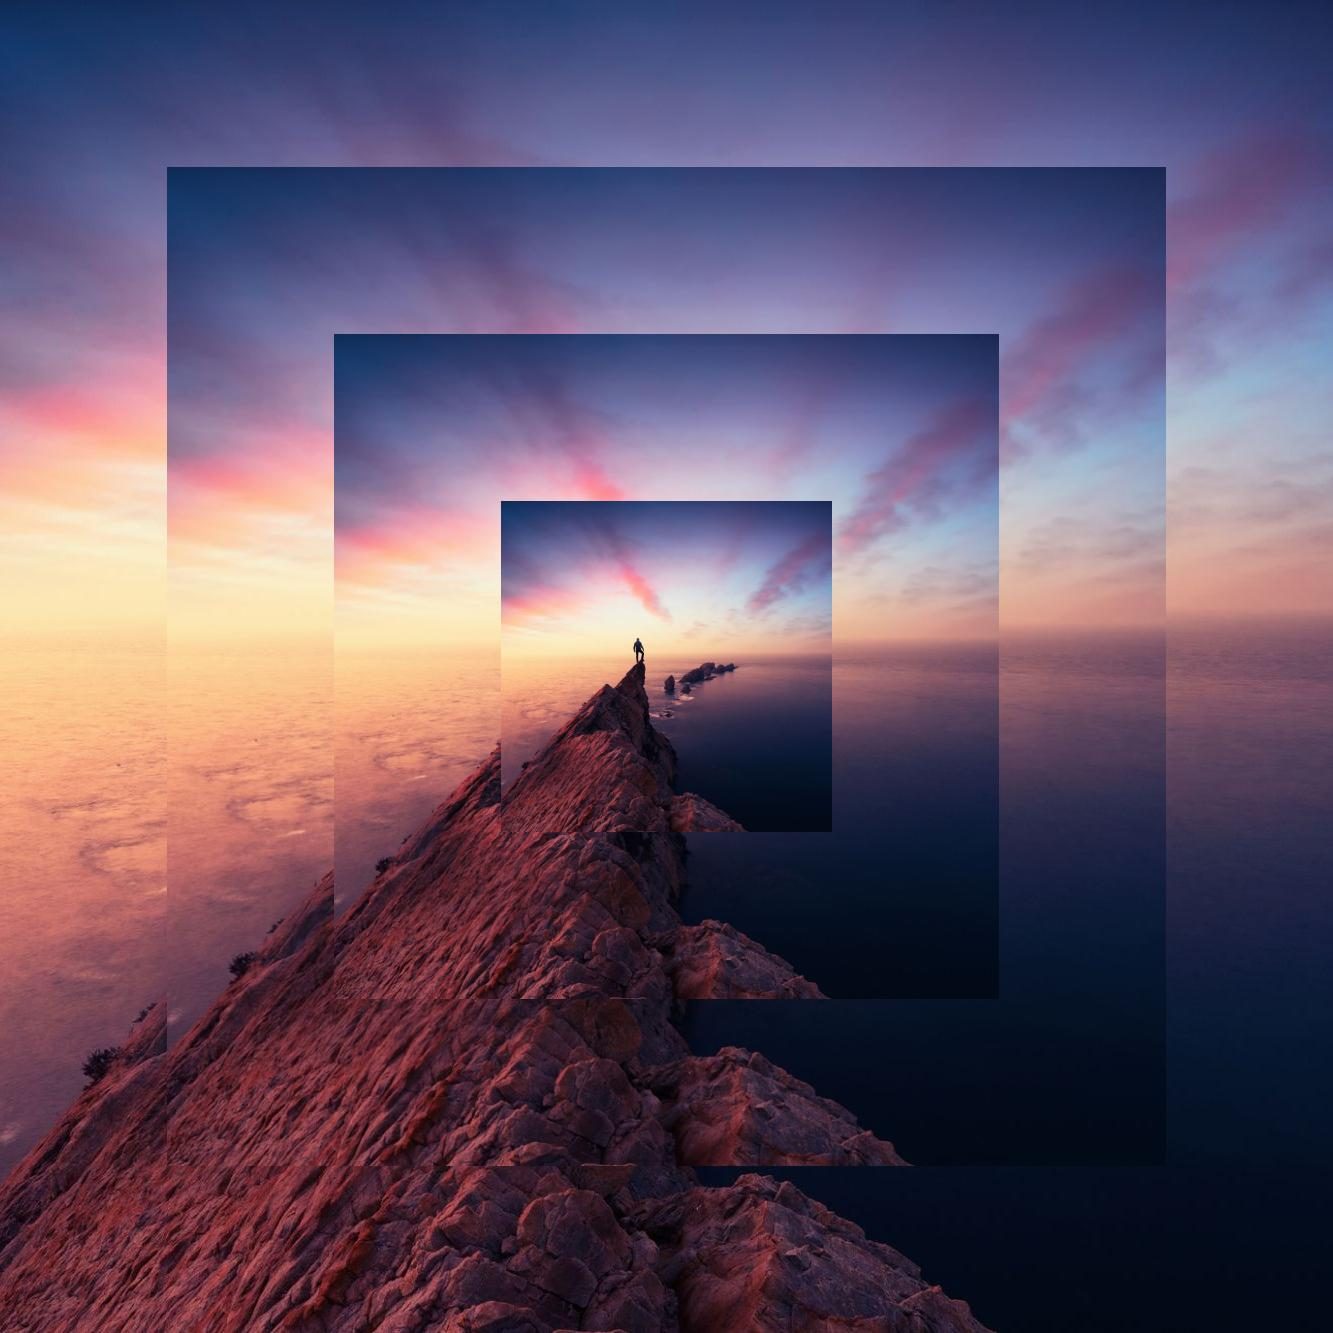
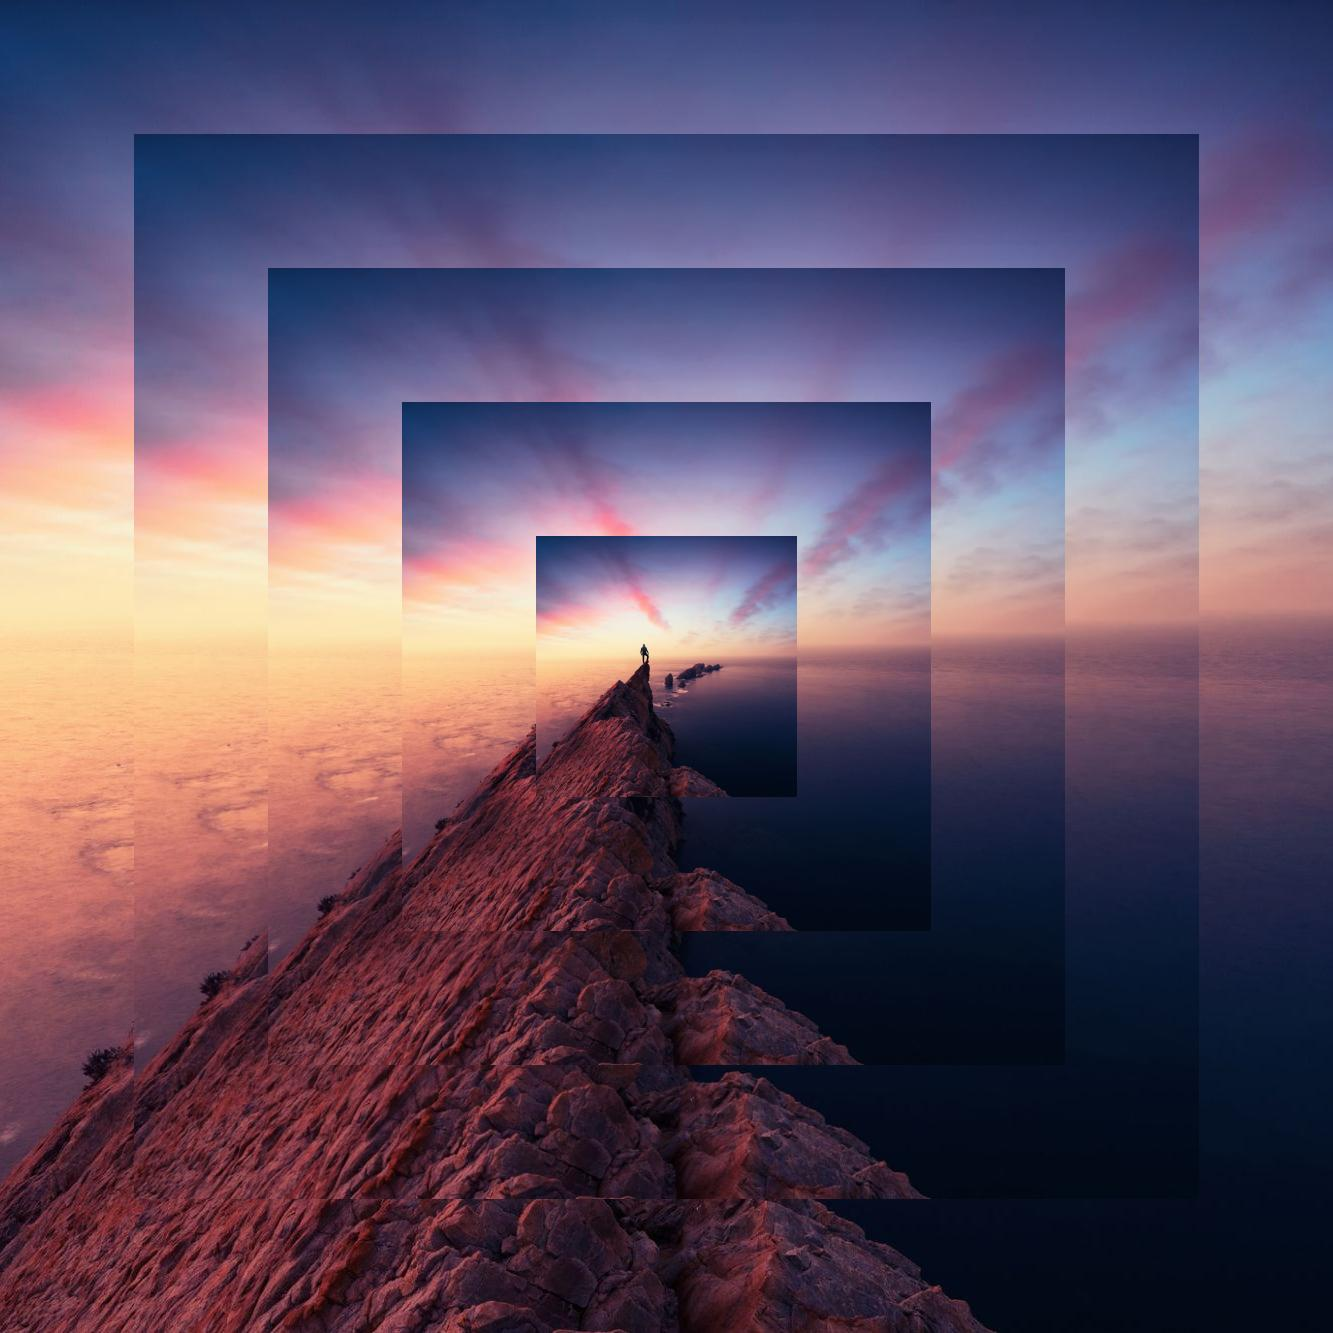
code cleared v1

diff --git a/app.js b/app.js
@@ -1,40 +1,30 @@
 const { createCanvas, loadImage } = require('canvas')
-const fs = require('fs')
+const Fs = require('fs')
+const Path = require('path')
 
-async function createRecursiveImage() {
-  loadImage(__dirname + '/none.jpeg')
+async function createRecursiveImage(imagePath, imageCount) {
+  loadImage(Path.join(__dirname, imagePath))
     .then(image => {
       let start = { x: 0, y: 0 }
       let end = { x: image.width, y: image.height }
-      // image count
-      let count = 4
 
       const canvas = createCanvas(image.width, image.height)
       const ctx = canvas.getContext('2d')
 
       ctx.beginPath()
 
-      canvas.width = image.width
-      canvas.height = image.height
-
       for (
         let x = start.x, y = start.y;
         x < end.x && y < end.y;
-        _z = Math.ceil(end.x / (count * 2)), x += _z, y -= _z
+        _z = Math.ceil(end.x / (imageCount * 2)), x += _z, y -= _z
       ) {
         if (x > image.width - x || y > image.height - y) {
           break
         }
 
-        ctx.drawImage(
-          image,
-          x,
-          Math.abs(y),
-          image.width - 2 * x,
-          image.height + 2 * y
-        )
+        ctx.drawImage(image, x, Math.abs(y), end.x - 2 * x, end.y + 2 * y)
 
-        const out = fs.createWriteStream(__dirname + '/answer.jpg')
+        const out = Fs.createWriteStream(Path.join(__dirname, 'answer.jpg'))
         const stream = canvas.createJPEGStream()
         stream.pipe(out)
 
@@ -49,4 +39,4 @@ async function createRecursiveImage() {
     })
 }
 
-createRecursiveImage()
+createRecursiveImage('none.jpeg', 5)
